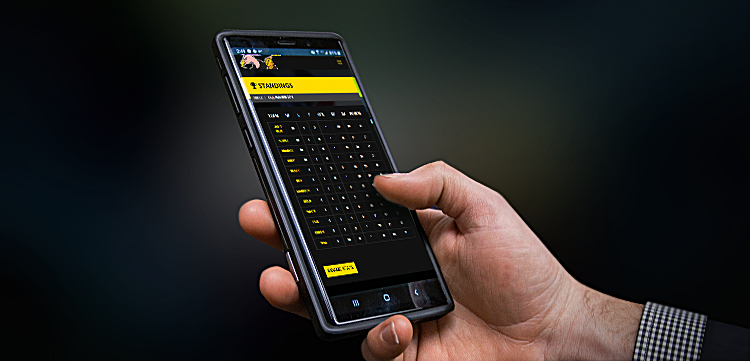
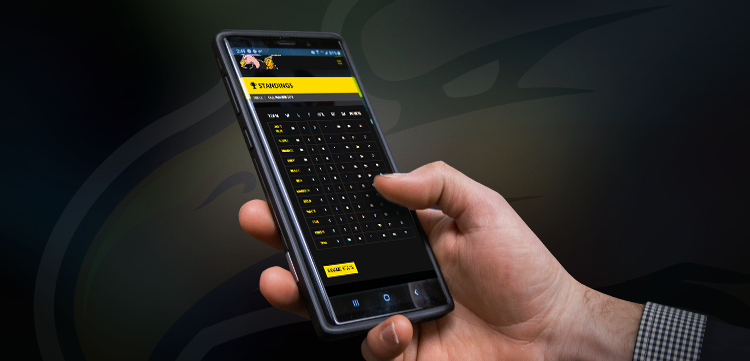
start top cheddar

diff --git a/project-topcheddar.php b/project-topcheddar.php
@@ -17,7 +17,7 @@
 
         <section class="project-content">
             <div class="full mar5-bot">
-                <img class="full" src="img/projects/allmight/allmight-hero.png" alt="All Might Hero">
+                <img class="full" src="img/projects/topcheddar/topcheddar-hero.png" alt="All Might Hero">
             </div>
 
             <div class="full copy-container pad60  grid-vertical-align-content">
